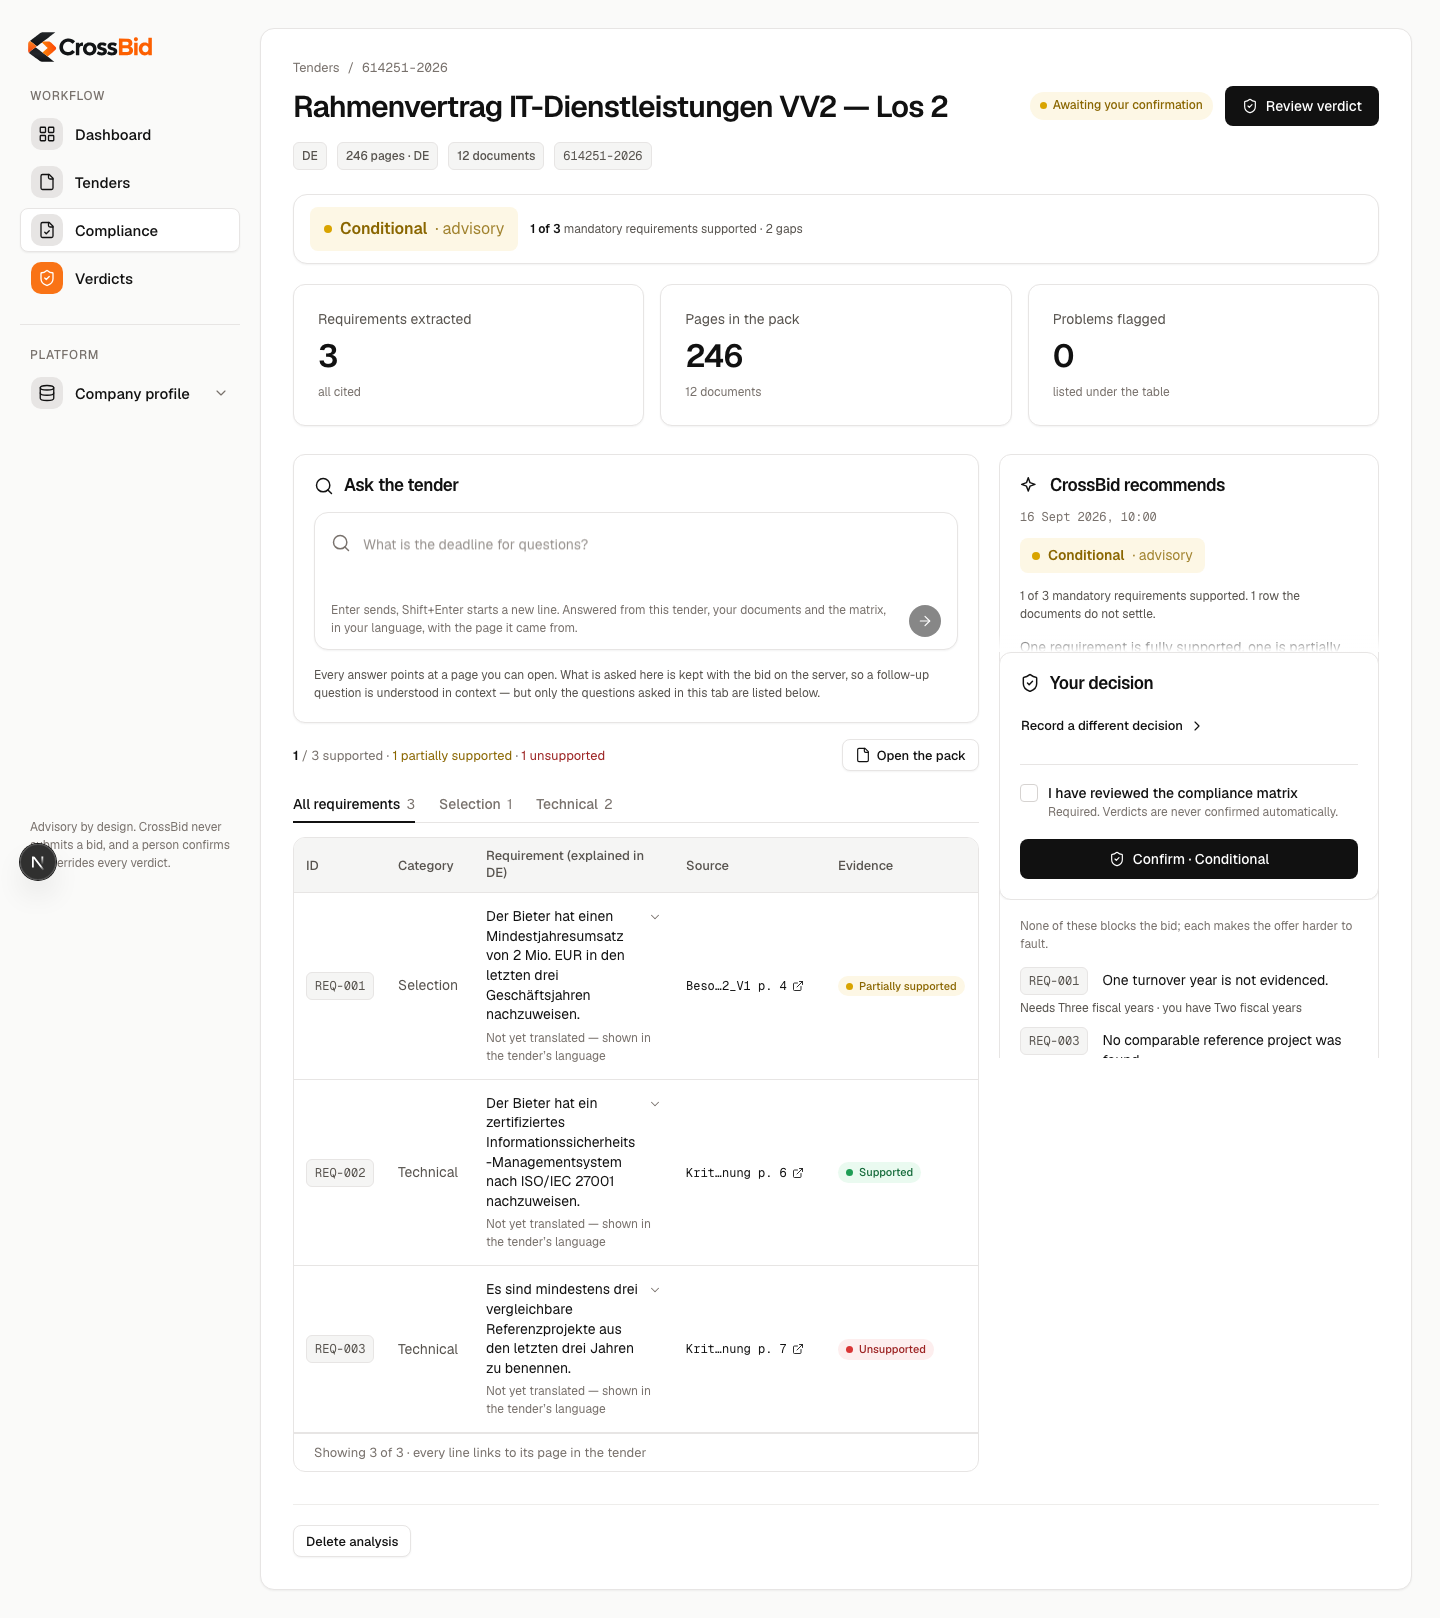
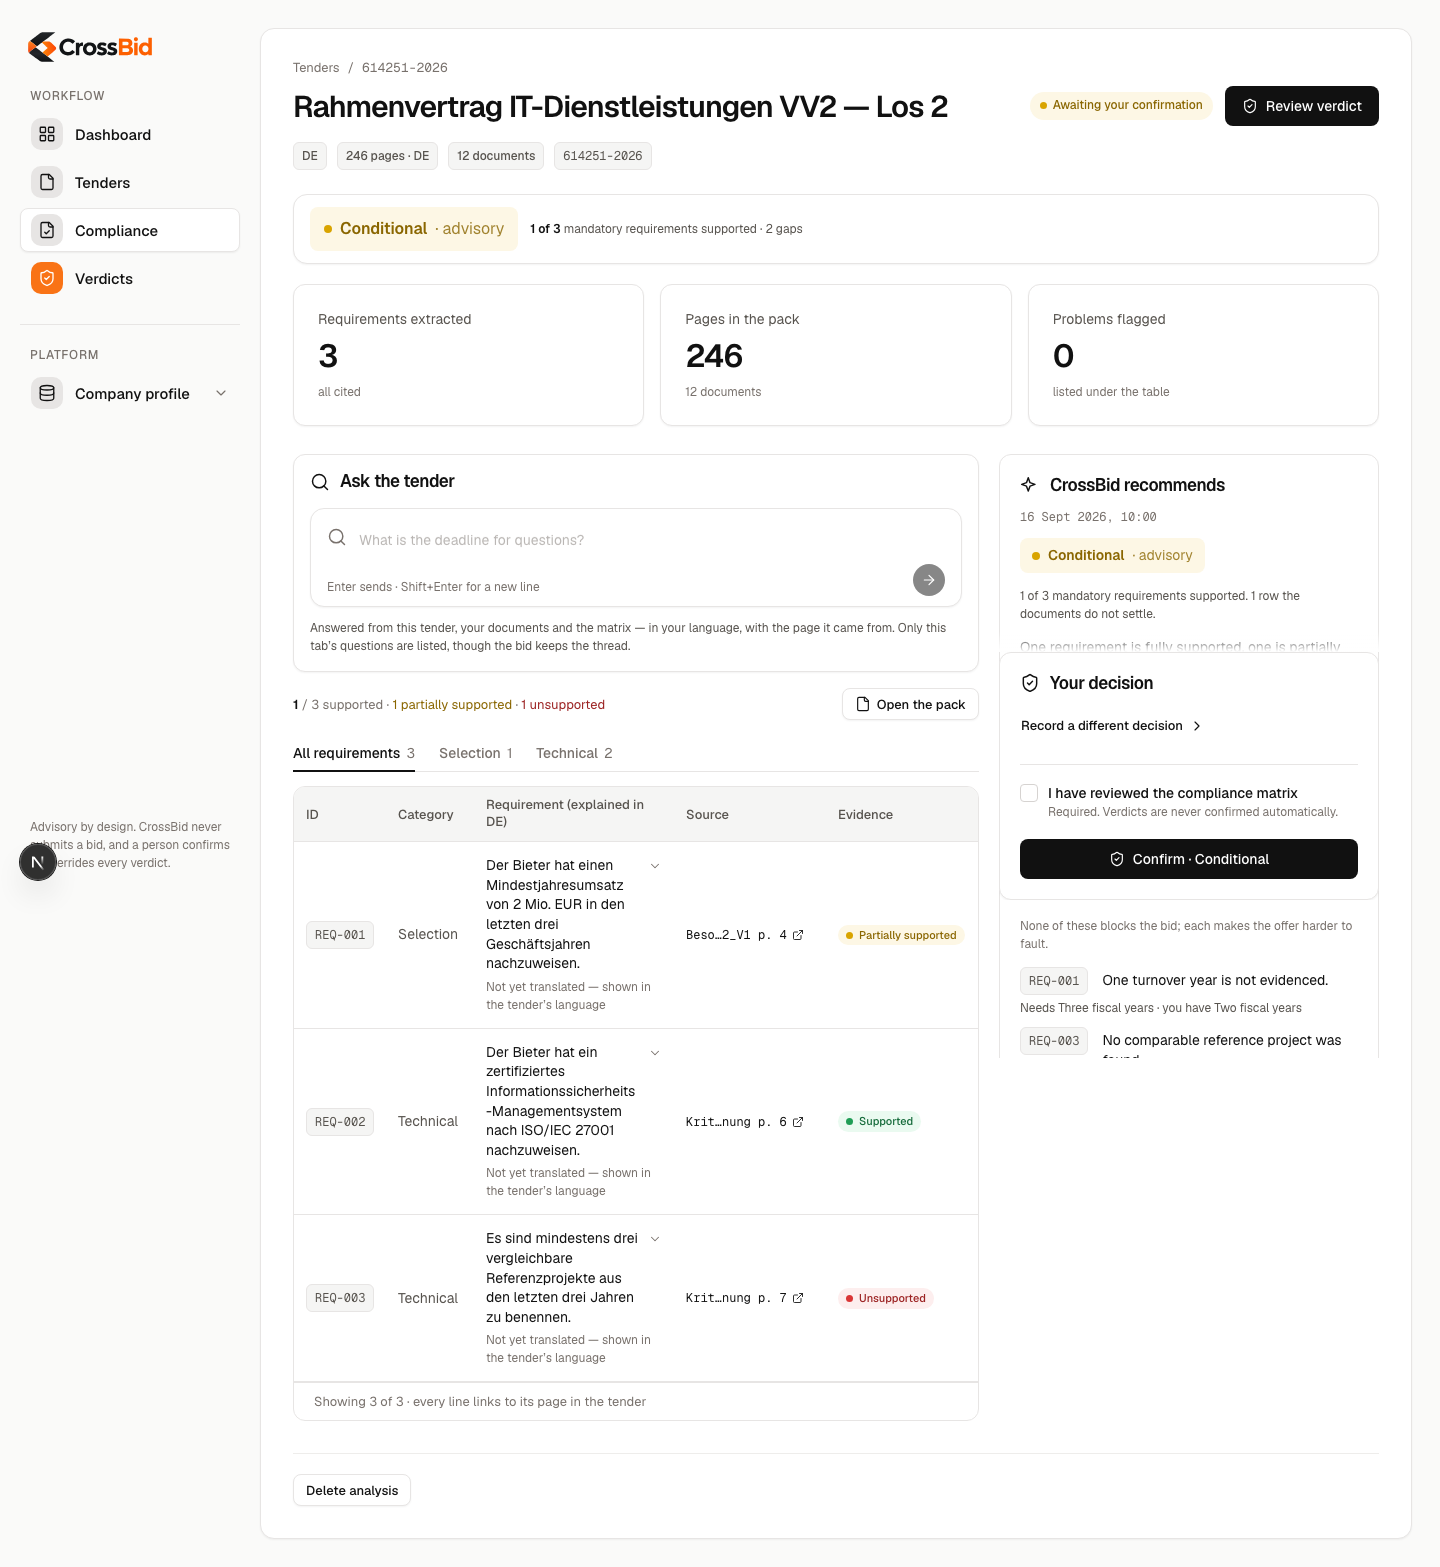
feat(bids): the Ask box stops spending its height on chrome
Three corrections, none of which came from reading the code.

The Ask card was about 261px empty, and it sits directly above the matrix, so
every bid paid it. The height was not in the content: a rows={2} box for a
field that is empty almost always, a hint long enough to wrap to two lines, and
20px padding. Now the box is one line and grows as it is typed into, the hint
is "Enter sends · Shift+Enter for a new line", and padding is 16px — 218px.

This is the first auto-growing textarea here; a grep for scrollHeight found
none to reuse. Two details are load-bearing and neither is obvious: the height
is reset to 0px before scrollHeight is read, because scrollHeight on an
already-tall box reports the height it has and the box could then only ever
grow; and it is a useLayoutEffect, so the box is never painted at the wrong
size.

Nothing was deleted. What the hint also used to say — that answers come from
this tender, the bidder's documents and the matrix, in their language, carrying
the page they came from — moved to the empty state, where a first-time reader
is. An intermediate version measured 244px because that rewritten sentence ran
to three lines: the saving had been spent on the sentence meant to hold it.

The rotating question goes from 3.2s to 2.2s. 3.2s read as a carousel that had
stalled; 2.2s still finishes the longest question in the set. The 200ms fade is
unchanged.

The logo now leads to the landing page in both the sidebar and the phone
[…]

diff --git a/frontend/components/bids/ask-panel.tsx b/frontend/components/bids/ask-panel.tsx
@@ -1,6 +1,13 @@
 'use client'
 
-import { useId, useState, type FormEvent, type KeyboardEvent } from 'react'
+import {
+  useId,
+  useLayoutEffect,
+  useRef,
+  useState,
+  type FormEvent,
+  type KeyboardEvent,
+} from 'react'
 import { cn } from 'cn'
 
 import type { Citation } from '@/components/matrix/citation'
@@ -103,6 +110,9 @@ export interface AskPanelProps {
  * number of seconds — is shown verbatim under the question, the way
  * `sign-in-card.tsx` shows Supabase's rate-limit text rather than "something went wrong".
  */
+/** About five rows; past it the box scrolls rather than eating the page. */
+const MAX_BOX_HEIGHT_PX = 132
+
 export function AskPanel({
   chat,
   feedback,
@@ -112,6 +122,7 @@ export function AskPanel({
   variant = 'banner',
 }: AskPanelProps) {
   const [draft, setDraft] = useState('')
+  const boxRef = useRef<HTMLTextAreaElement>(null)
   const fieldId = useId()
   const hintId = `${fieldId}-hint`
   const isPhone = variant === 'phone'
@@ -121,6 +132,27 @@ export function AskPanel({
   const placeholder = useRotatingPlaceholder(draft !== '' || chat.isAsking)
   const canSend = draft.trim() !== '' && !chat.isAsking && !isBlocked
   const newestFirst = [...chat.exchanges].reverse()
+
+  /**
+   * The box is one line at rest and grows with the question.
+   *
+   * It was `rows={2}`, which spent a line of height on a box that is empty almost all of the
+   * time — and this card sits directly above the matrix, so it paid that on every bid. Two
+   * details matter: the height is reset to `0px` before `scrollHeight` is read, because
+   * `scrollHeight` on an already-tall box reports the old height and the box could then only
+   * ever grow; and this is `useLayoutEffect`, so the box is never painted at the wrong size.
+   * Clearing the draft after a send collapses it again for free.
+   *
+   * The first auto-growing textarea in this repo — there was no helper to reuse.
+   */
+  useLayoutEffect(() => {
+    const box = boxRef.current
+    if (box === null) {
+      return
+    }
+    box.style.height = '0px'
+    box.style.height = `${Math.min(box.scrollHeight, MAX_BOX_HEIGHT_PX)}px`
+  }, [draft])
 
   async function send() {
     if (!canSend) {
@@ -145,17 +177,20 @@ export function AskPanel({
     }
   }
 
+  // One line. What this used to also say — where answers come from and that they carry their
+  // page — now sits in the empty state, which is where a first-time reader is and where there
+  // is room for it. The rate-limit sentence is the one case worth a second line.
   const hint =
     chat.blockedUntil !== undefined
       ? `This company has used its hour's questions. Ask again at ${formatTime(new Date(chat.blockedUntil))}.`
-      : 'Enter sends, Shift+Enter starts a new line. Answered from this tender, your documents and the matrix, in your language, with the page it came from.'
+      : 'Enter sends · Shift+Enter for a new line'
 
   return (
-    <Card title="Ask the tender" icon={<Icon name="search" size={20} />} padding={20}>
+    <Card title="Ask the tender" icon={<Icon name="search" size={20} />} padding={16}>
       <form
         onSubmit={handleSubmit}
         className={cn(
-          'rounded-[14px] border border-border-default bg-surface-card px-4 pt-3.5 pb-3 shadow-xs transition-shadow [transition-duration:var(--duration-fast)]',
+          'rounded-[14px] border border-border-default bg-surface-card px-4 pt-3 pb-2.5 shadow-xs transition-shadow [transition-duration:var(--duration-fast)]',
           'focus-within:border-border-focus focus-within:shadow-[var(--shadow-focus)] focus-within:focus-ring'
         )}
       >
@@ -166,14 +201,15 @@ export function AskPanel({
           <Icon name="search" size={20} className="mt-1.5 shrink-0 text-text-muted" />
           <div className="relative min-w-0 flex-1">
             <textarea
+              ref={boxRef}
               id={fieldId}
-              rows={2}
+              rows={1}
               value={draft}
               maxLength={MAX_QUESTION_CHARS}
               onChange={(event) => setDraft(event.target.value)}
               onKeyDown={handleKeyDown}
               aria-describedby={hintId}
-              className="w-full min-w-0 resize-none bg-transparent py-1.5 text-base leading-[1.5] text-text-primary outline-none"
+              className="block w-full min-w-0 resize-none overflow-y-auto bg-transparent py-1.5 text-base leading-[1.5] text-text-primary outline-none"
             />
             {/* The rotating question, drawn over the empty field rather than set as its
                 `placeholder`, because a `placeholder` attribute cannot animate. It is
@@ -200,7 +236,7 @@ export function AskPanel({
             )}
           </div>
         </div>
-        <div className="mt-3.5 flex items-end justify-between gap-3">
+        <div className="mt-2.5 flex items-end justify-between gap-3">
           <p
             id={hintId}
             className={cn(
@@ -225,10 +261,10 @@ export function AskPanel({
       </form>
 
       {newestFirst.length === 0 ? (
-        <p className="m-0 mt-4 [font:var(--type-body-sm)] text-text-secondary">
-          Every answer points at a page you can open. What is asked here is kept with the bid on
-          the server, so a follow-up question is understood in context — but only the questions
-          asked in this tab are listed below.
+        <p className="m-0 mt-3 [font:var(--type-body-sm)] text-text-secondary">
+          Answered from this tender, your documents and the matrix — in your language, with the
+          page it came from. Only this tab&rsquo;s questions are listed, though the bid keeps
+          the thread.
         </p>
       ) : (
         // The live region wraps the list rather than being the list: `role="log"` on the

diff --git a/frontend/e2e/ask-panel.spec.ts b/frontend/e2e/ask-panel.spec.ts
@@ -95,6 +95,43 @@ test.describe('Ask the tender — the question that cycles', () => {
     ).toBe(first)
   })
 
+  /**
+   * The box is one line at rest and grows with the question (ADR-0109).
+   *
+   * It was `rows={2}`, which spent a line of height on a box that is empty almost all of the
+   * time — and this card sits directly above the matrix, so every bid paid it. Asserted
+   * against the textarea's own height rather than the card's, so it states the behaviour
+   * instead of pinning a layout number that any copy change would move.
+   *
+   * Measured red at `rows={2}`: the box is two lines tall before anything is typed.
+   */
+  test('the question box is one line until it needs more', async ({ page }) => {
+    await page.goto(`/bids/${BID_ID}`)
+    const box = page.getByRole('textbox', { name: 'Your question about this tender' })
+    await expect(box).toBeVisible()
+
+    const height = async (): Promise<number> =>
+      box.evaluate((element) => element.getBoundingClientRect().height)
+    const lineHeight = await box.evaluate((element) =>
+      Number.parseFloat(getComputedStyle(element).lineHeight)
+    )
+
+    const atRest = await height()
+    expect(atRest, 'the box is taller than one line before anything is typed').toBeLessThan(
+      lineHeight * 2
+    )
+
+    await box.fill(
+      'Welche Nachweise verlangt der Auftraggeber für die wirtschaftliche und finanzielle ' +
+        'Leistungsfähigkeit des Bieters, und bis wann müssen sie eingereicht werden?'
+    )
+    expect(await height(), 'the box did not grow with the question').toBeGreaterThan(atRest)
+
+    // And it collapses again, so a sent question does not leave the page stretched.
+    await box.fill('')
+    expect(await height()).toBe(atRest)
+  })
+
   test('the send control is named, and only live once there is a question', async ({
     page,
   }) => {

diff --git a/frontend/e2e/dashboard.spec.ts b/frontend/e2e/dashboard.spec.ts
@@ -47,3 +47,26 @@ test('the dashboard lists the company’s bids without logging an error', async 
 
   expect(consoleErrors).toEqual([])
 })
+
+/**
+ * The shell's logo leads to the landing page (ADR-0109).
+ *
+ * It led to `/dashboard`, which is the usual convention for a signed-in app — the logo is the
+ * app's own home. This reverses that on purpose, so the test asserts the **destination** and
+ * not only that the logo is a link: the accessible name alone passed against the old target
+ * too, and a name is not where a click goes.
+ *
+ * Measured red against `href="/dashboard"`: the URL after the click is the dashboard's.
+ */
+test('the logo leads back to the landing page', async ({ api, page }) => {
+  api.on('GET', '/bids', { status: 200, json: { bids: [] } })
+
+  await page.goto('/dashboard')
+  const logo = page.getByRole('link', { name: 'CrossBid — home' })
+  await expect(logo).toBeVisible()
+
+  await logo.click()
+
+  await expect(page).toHaveURL(/\/$/)
+  await expect(page.getByRole('heading', { level: 1 })).toContainText(/Know if you can win/i)
+})

diff --git a/frontend/components/bids/ask-placeholders.ts b/frontend/components/bids/ask-placeholders.ts
@@ -18,7 +18,13 @@ export const ASK_PLACEHOLDERS: readonly string[] = [
   'Who is the contracting authority?',
 ]
 
-/** How long each question rests before the next one replaces it. */
-export const ASK_PLACEHOLDER_INTERVAL_MS = 3_200
+/**
+ * How long each question rests before the next one replaces it.
+ *
+ * 3.2 s first, which read as a carousel that had stalled. 2.2 s is long enough to finish the
+ * longest of them — "Which certificates does the buyer accept?" — and short enough that the
+ * box looks like it is offering rather than waiting.
+ */
+export const ASK_PLACEHOLDER_INTERVAL_MS = 2_200
 /** How long the outgoing question takes to leave, which is `--duration-base`. */
 export const ASK_PLACEHOLDER_FADE_MS = 200

diff --git a/frontend/components/layout/sidebar.tsx b/frontend/components/layout/sidebar.tsx
@@ -16,11 +16,7 @@ export function Sidebar() {
   return (
     <aside className="sticky top-0 hidden h-screen w-[var(--sidebar-width)] shrink-0 flex-col px-5 py-7 shell:flex">
       <div className="flex items-center px-2 py-1">
-        <Link
-          href="/dashboard"
-          className="inline-flex rounded-md"
-          aria-label="CrossBid — dashboard"
-        >
+        <Link href="/" className="inline-flex rounded-md" aria-label="CrossBid — home">
           <Image
             src="/logo-lockup.svg"
             alt="CrossBid"

diff --git a/frontend/components/layout/mobile-header.tsx b/frontend/components/layout/mobile-header.tsx
@@ -31,11 +31,7 @@ export function MobileHeader() {
 
   return (
     <header className="flex h-14 items-center justify-between border-b border-border-default bg-surface-card pr-3 pl-4 shell:hidden">
-      <Link
-        href="/dashboard"
-        className="inline-flex rounded-md"
-        aria-label="CrossBid — dashboard"
-      >
+      <Link href="/" className="inline-flex rounded-md" aria-label="CrossBid — home">
         <Image
           src="/logo-lockup.svg"
           alt="CrossBid"

diff --git a/docs/decisions.md b/docs/decisions.md
@@ -7495,3 +7495,70 @@ matrix's own body text**, and **the recommendation's title is one line**. Measur
 against the matrix's 14, and at two lines with the `Tag` back in `actions` (ADR-0063).
 
 248 frontend unit tests and 44 browser journeys green, plus lint, typecheck, prettier and build.
+
+## ADR-0109 — Three corrections from using the page
+
+**Date:** 2026-09-20 · **Stories:** follow-up to S4.6.1 and the shell · **Status:** accepted
+**Amends ADR-0107** (the Ask box) and reverses a navigation convention.
+
+None of these came from reading the code. They came from the built page.
+
+### The Ask card was spending its height on chrome — 261 px → 218 px
+
+Empty and 660 px wide, the card was about 261 px, and it sits **directly above the matrix**, so
+every bid paid it. The height was not in the content:
+
+| | was | now |
+|---|---|---|
+| The question box | `rows={2}` — two lines for a box that is empty almost always | one line, growing as it is typed into |
+| The hint | long enough to wrap to two lines | `Enter sends · Shift+Enter for a new line` |
+| Card padding | 20 px | 16 px |
+
+**The first auto-growing textarea in this repo** — a grep for `scrollHeight` found none, so
+there was no helper to reuse. Two details are load-bearing and neither is obvious: the height
+is set to `0px` before `scrollHeight` is read, because `scrollHeight` on an already-tall box
+reports the height it has and the box could then only ever grow; and it is a `useLayoutEffect`,
+so the box is never painted at the wrong size. Clearing the draft after a send collapses it for
+free.
+
+**Nothing was deleted.** What the hint used to also say — that answers come from this tender,
+the bidder's documents and the matrix, in the bidder's language, carrying the page they came
+from — moved into the empty state, which is where a first-time reader is and where there is
+room. The rate-limit sentence still replaces the hint and may still take two lines; that state
+is worth them.
+
+An intermediate version of this scored 244 px, because the rewritten empty-state text ran to
+three lines — the saving had been spent on the sentence meant to hold it. Measured, tightened,
+re-measured.
+
+### The rotation was slow — 3.2 s → 2.2 s
+
+`ASK_PLACEHOLDER_INTERVAL_MS`. 3.2 s read as a carousel that had stalled. 2.2 s is still long
+enough to finish the longest question in the set. The 200 ms fade is unchanged; it is the
+`--duration-base` the animation was built on.
+
+### The logo leads to the landing page, which is a reversal
+
+`sidebar.tsx` and `mobile-header.tsx` pointed at `/dashboard` — the usual convention for a
+signed-in app, where the logo is the *app's* home. Both now point at `/`.
+
+**This is a deliberate reversal and is recorded as one**, because a future reader would
+otherwise take it for an accident and quietly change it back. A signed-in bidder clicking the
+logo now leaves for the marketing page; `Dashboard` is the first item in the nav directly
+beneath it, so the old destination costs one click.
+
+The label is not new: `aria-label="CrossBid — home"` is what `landing-nav.tsx`, `auth-card.tsx`
+and the not-found page already use, so the shell stops being the odd one out.
+
+### Tests
+
+Two browser tests, because none of this is visible to jsdom. **The box is one line at rest and
+grows with the question**, asserted against the textarea's own height rather than the card's so
+it states the behaviour instead of pinning a layout number that any copy change would move. And
+**the logo's destination** — not merely that it is a link, because the accessible name alone
+passed against the old target too, and a name is not where a click goes.
+
+Both measured failing with their fix reverted (ADR-0063): at `rows={2}` the box is two lines
+before anything is typed, and at `href="/dashboard"` the URL after the click is the dashboard's.
+
+248 frontend unit tests and 46 browser journeys green, plus lint, typecheck, prettier and build.

diff --git a/CLAUDE.md b/CLAUDE.md
@@ -6,7 +6,7 @@ This file provides guidance to Claude Code (claude.ai/code) when working with co
 
 **Increments 0 to 4 are complete. Increment 5, the submission evidence, is in progress.**
 Increment 0 (the SP.1 extraction spike) is complete — see `docs/decisions.md` ADR-0003 for the
-recall result and its caveats. The decision log runs to **ADR-0108** with no gaps. **Twelve
+recall result and its caveats. The decision log runs to **ADR-0109** with no gaps. **Twelve
 migrations exist, `0001` through `0012`**, and `0001`–`0011` are applied to Frankfurt;
 **`0012` is not** — it drops `documents.bid_id` and `tender_chunks.bid_id`, is not online-safe,
 and the code on `main` requires it. 0008 and 0009 went on by hand on 2026-09-16, after a
